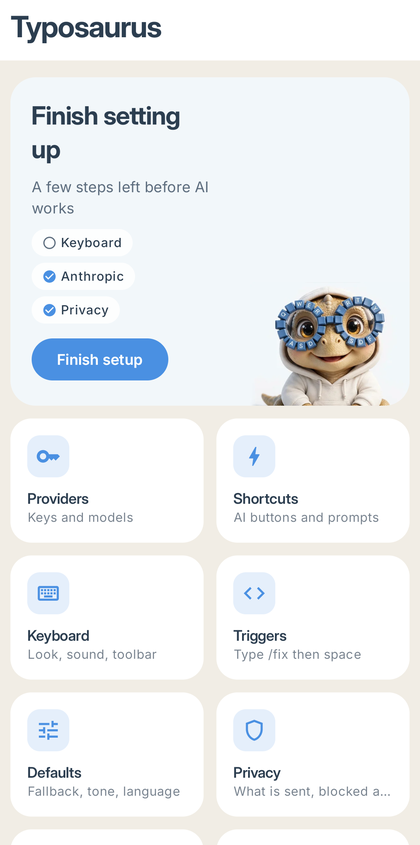
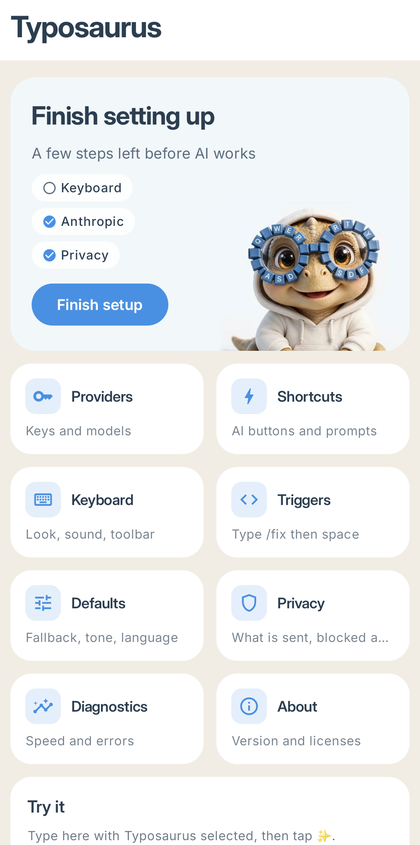
Home header and tiles layout; blue README diagram; fix dependency scan
- Header: title and subtitle on one full-width line each; chips and
  button on the left; dino in the bottom-right corner, clear of text.
- Home tiles: icon and name on one line, description below.
- README: flowchart recoloured to the slate-blue theme; state diagram
  removed; new home screenshot.
- CI: write a Gradle lockfile for the release classpath before the OSV
  scan (it found no package sources and failed with exit 128).

diff --git a/app/src/main/java/com/example/aikeyboard/settings/screens/HomeAndOnboarding.kt b/app/src/main/java/com/example/aikeyboard/settings/screens/HomeAndOnboarding.kt
@@ -81,27 +81,31 @@ fun HomeScreen(vm: SettingsViewModel, nav: NavController) {
             // The dino sits in the bottom-right corner; text keeps the left side.
             Image(
                 painterResource(R.drawable.header_dino), null,
-                Modifier.align(Alignment.BottomEnd).fillMaxWidth(0.40f), contentScale = ContentScale.Fit,
+                Modifier.align(Alignment.BottomEnd).fillMaxWidth(0.48f), contentScale = ContentScale.Fit,
             )
-            Column(
-                Modifier.fillMaxWidth(0.56f).padding(20.dp),
-                verticalArrangement = Arrangement.spacedBy(10.dp),
-            ) {
-                Text(if (ready) "You're all set" else "Finish setting up", color = PosterInk, style = MaterialTheme.typography.headlineSmall)
+            Column(Modifier.fillMaxWidth().padding(20.dp), verticalArrangement = Arrangement.spacedBy(10.dp)) {
+                // Headline and subtitle span the card, one line each.
                 Text(
-                    if (ready) "Tap ✨ on the keyboard in any app" else "A few steps left before AI works",
-                    color = PosterMuted, style = MaterialTheme.typography.bodyMedium,
+                    if (ready) "You're all set" else "Finish setting up", color = PosterInk,
+                    style = MaterialTheme.typography.headlineSmall, maxLines = 1, softWrap = false, overflow = TextOverflow.Ellipsis,
                 )
-                FlowRow(horizontalArrangement = Arrangement.spacedBy(6.dp), verticalArrangement = Arrangement.spacedBy(6.dp)) {
-                    StatusChip("Keyboard", ime.enabled && ime.selected)
-                    StatusChip(provider, hasKey)
-                    StatusChip("Privacy", cfg.consentGiven)
-                }
-                if (!ready) {
-                    Button(
-                        onClick = { nav.navigate("onboarding") },
-                        colors = ButtonDefaults.buttonColors(containerColor = PosterAccent, contentColor = Color.White),
-                    ) { Text("Finish setup") }
+                Text(
+                    if (ready) "Tap ✨ on the keyboard in any app" else "A few steps left before AI works", color = PosterMuted,
+                    style = MaterialTheme.typography.bodyMedium, maxLines = 1, softWrap = false, overflow = TextOverflow.Ellipsis,
+                )
+                // Chips and the button stay on the left, clear of the dino in the corner.
+                Column(Modifier.fillMaxWidth(0.52f), verticalArrangement = Arrangement.spacedBy(10.dp)) {
+                    FlowRow(horizontalArrangement = Arrangement.spacedBy(6.dp), verticalArrangement = Arrangement.spacedBy(6.dp)) {
+                        StatusChip("Keyboard", ime.enabled && ime.selected)
+                        StatusChip(provider, hasKey)
+                        StatusChip("Privacy", cfg.consentGiven)
+                    }
+                    if (!ready) {
+                        Button(
+                            onClick = { nav.navigate("onboarding") },
+                            colors = ButtonDefaults.buttonColors(containerColor = PosterAccent, contentColor = Color.White),
+                        ) { Text("Finish setup") }
+                    }
                 }
             }
         }
@@ -142,16 +146,20 @@ private class HomeTile(val title: String, val subtitle: String, val icon: ImageV
 @Composable
 private fun TileCard(t: HomeTile, modifier: Modifier, onClick: () -> Unit) {
     Card(onClick = onClick, modifier = modifier, shape = RoundedCornerShape(20.dp)) {
-        Column(Modifier.padding(16.dp), verticalArrangement = Arrangement.spacedBy(10.dp)) {
-            Box(
-                Modifier.size(40.dp).clip(RoundedCornerShape(12.dp)).background(MaterialTheme.colorScheme.primary.copy(alpha = 0.14f)),
-                contentAlignment = Alignment.Center,
-            ) { Icon(t.icon, null, tint = MaterialTheme.colorScheme.primary) }
-            Column {
-                Text(t.title, style = MaterialTheme.typography.titleSmall, maxLines = 1)
-                Text(t.subtitle, style = MaterialTheme.typography.bodySmall, maxLines = 1, overflow = TextOverflow.Ellipsis,
-                    color = MaterialTheme.colorScheme.onSurface.copy(alpha = 0.65f))
+        Column(Modifier.padding(14.dp), verticalArrangement = Arrangement.spacedBy(8.dp)) {
+            // Icon and name on one line, description underneath.
+            Row(verticalAlignment = Alignment.CenterVertically) {
+                Box(
+                    Modifier.size(34.dp).clip(RoundedCornerShape(10.dp)).background(MaterialTheme.colorScheme.primary.copy(alpha = 0.14f)),
+                    contentAlignment = Alignment.Center,
+                ) { Icon(t.icon, null, Modifier.size(20.dp), tint = MaterialTheme.colorScheme.primary) }
+                Spacer(Modifier.width(10.dp))
+                Text(t.title, style = MaterialTheme.typography.titleSmall, maxLines = 1, overflow = TextOverflow.Ellipsis)
             }
+            Text(
+                t.subtitle, style = MaterialTheme.typography.bodySmall, maxLines = 1, overflow = TextOverflow.Ellipsis,
+                color = MaterialTheme.colorScheme.onSurface.copy(alpha = 0.65f),
+            )
         }
     }
 }

diff --git a/README.md b/README.md
@@ -99,29 +99,12 @@ flowchart LR
     an -- "streamed result" --> kb
     kb -- "Accept · Undo" --> app
 
-    classDef ink fill:#050505,stroke:#C6FF3D,color:#F2F5EE,stroke-width:2px
-    classDef lime fill:#C6FF3D,stroke:#2F4A22,color:#050505,stroke-width:2px
-    classDef green fill:#2F4A22,stroke:#C6FF3D,color:#F2F5EE
+    classDef ink fill:#2C3E50,stroke:#4A90E2,color:#F5F7FA,stroke-width:2px
+    classDef blue fill:#4A90E2,stroke:#2C3E50,color:#FFFFFF,stroke-width:2px
+    classDef soft fill:#E9EEF4,stroke:#4A90E2,color:#2C3E50
     class app,oa,an ink
-    class kb,runner lime
-    class prompts,trig,keys,route green
-```
-
-Every AI action goes through the same small state machine, so nothing reaches your text until you accept it:
-
-```mermaid
-stateDiagram-v2
-    direction LR
-    [*] --> Idle
-    Idle --> Streaming: tap ✨ / type /fix␣
-    Streaming --> Preview: result streamed
-    Streaming --> Failed: offline · bad key · timeout
-    Preview --> Applied: Accept
-    Preview --> Streaming: Retry
-    Preview --> Idle: Cancel
-    Applied --> Idle: Undo (5 s) or keep typing
-    Failed --> Streaming: Retry
-    Failed --> Idle: Dismiss
+    class kb,runner blue
+    class prompts,trig,keys,route soft
 ```
 
 | Module | What | Platforms |
